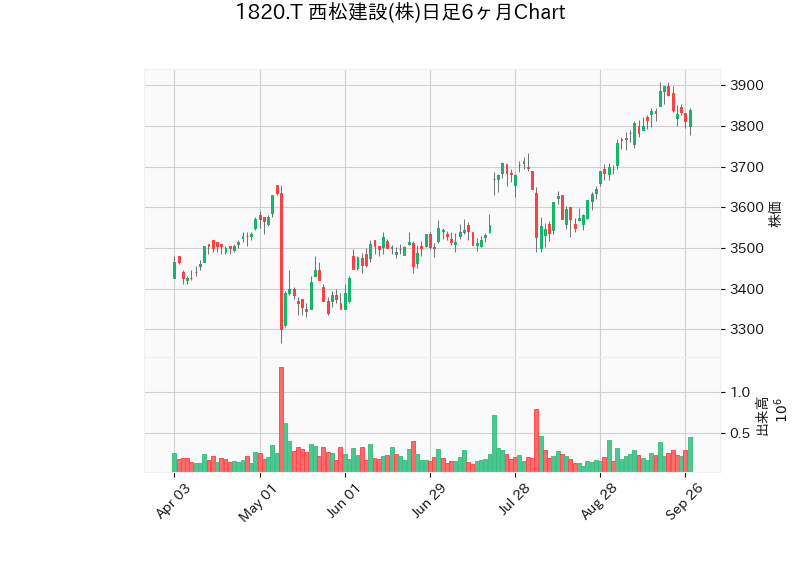
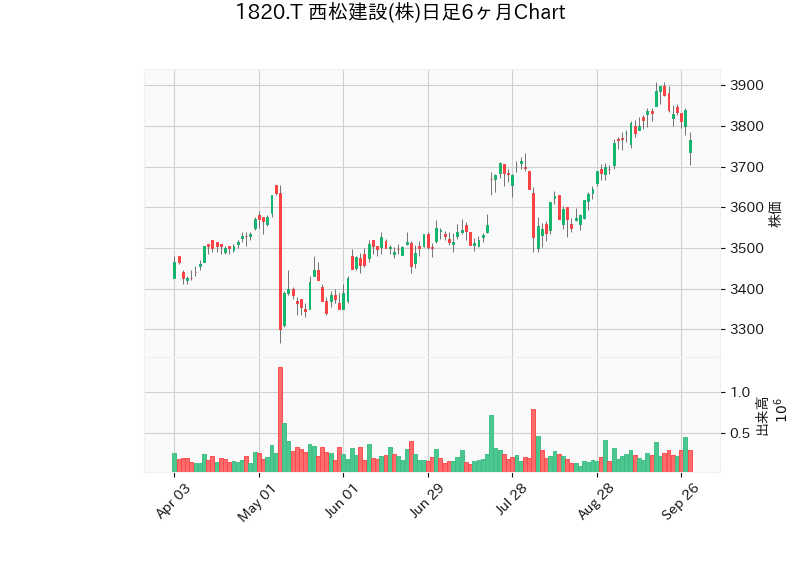
20230929-14

diff --git a/k/index.html b/k/index.html
@@ -3,74 +3,122 @@
 <title>GetInfoooooo!</title>
 </head>
 <body>
-処理日時: 2023/09/28 06:42
+処理日時: 2023/09/29 05:20
 <p>※配当利回りの数字は不正確の模様。確認中。</p>
 <p>※日経平均、主要ETF、その他指数のチャートはいずれ対応予定。</p>
 <p>　Nasdaq100、SP500、DOW、日経先物、TOPIX、ドル円など</p>
 
-────────────────────────────<p>1301：(株)極洋 （水産・農林業）</p>
-<p>利回：2.26%  権確：2024/03/28  前日終値：4020.0 円</p>
+<br><br>────────────────────────────────────────<p>1301：(株)極洋 （水産・農林業）</p>
+<p>利回：2.26%  権確：2024/03/28  前日終値：4015.0 円</p>
 <img src='img/1301.T_candlestick_chart.png'>
-────────────────────────────<p>1414：ショーボンドホールディングス(株) （建設業）</p>
-<p>利回：2.46%  権確：2023/12/28  前日終値：5897.0 円</p>
+<br><br>────────────────────────────────────────<p>1414：ショーボンドホールディングス(株) （建設業）</p>
+<p>利回：2.47%  権確：2023/12/28  前日終値：5905.0 円</p>
 <img src='img/1414.T_candlestick_chart.png'>
-────────────────────────────<p>1419：タマホーム(株) （建設業）</p>
-<p>利回：10.18%  権確：2024/05/30  前日終値：3675.0 円</p>
+<br><br>────────────────────────────────────────<p>1419：タマホーム(株) （建設業）</p>
+<p>利回：10.18%  権確：2024/05/30  前日終値：3645.0 円</p>
 <img src='img/1419.T_candlestick_chart.png'>
-────────────────────────────<p>1420：サンヨーホームズ(株) （建設業）</p>
-<p>利回：6.88%  権確：2024/03/28  前日終値：730.0 円</p>
+<br><br>────────────────────────────────────────<p>1420：サンヨーホームズ(株) （建設業）</p>
+<p>利回：6.88%  権確：2024/03/28  前日終値：727.0 円</p>
 <img src='img/1420.T_candlestick_chart.png'>
-────────────────────────────<p>1518：三井松島ホールディングス(株) （鉱業）</p>
-<p>利回：2.79%  権確：2023/09/28  前日終値：2839.0 円</p>
+<br><br>────────────────────────────────────────<p>1518：三井松島ホールディングス(株) （鉱業）</p>
+<p>利回：2.79%  権確：2023/09/28  前日終値：2854.0 円</p>
 <img src='img/1518.T_candlestick_chart.png'>
-────────────────────────────<p>1605：(株)ＩＮＰＥＸ （鉱業）</p>
-<p>利回：3.27%  権確：2023/12/28  前日終値：2267.0 円</p>
+<br><br>────────────────────────────────────────<p>1605：(株)ＩＮＰＥＸ （鉱業）</p>
+<p>利回：3.27%  権確：2023/12/28  前日終値：2323.0 円</p>
 <img src='img/1605.T_candlestick_chart.png'>
-────────────────────────────<p>1663：Ｋ＆Ｏエナジーグループ(株) （鉱業）</p>
-<p>利回：1.35%  権確：2023/12/28  前日終値：2528.0 円</p>
+<br><br>────────────────────────────────────────<p>1663：Ｋ＆Ｏエナジーグループ(株) （鉱業）</p>
+<p>利回：1.35%  権確：2023/12/28  前日終値：2642.0 円</p>
 <img src='img/1663.T_candlestick_chart.png'>
-────────────────────────────<p>1719：安藤ハザマ （建設業）</p>
-<p>利回：4.99%  権確：2023/09/28  前日終値：1195.0 円</p>
+<br><br>────────────────────────────────────────<p>1719：安藤ハザマ （建設業）</p>
+<p>利回：4.99%  権確：2023/09/28  前日終値：1192.0 円</p>
 <img src='img/1719.T_candlestick_chart.png'>
-────────────────────────────<p>1766：東建コーポレーション(株) （建設業）</p>
-<p>利回：3.16%  権確：2024/04/26  前日終値：8010.0 円</p>
+<br><br>────────────────────────────────────────<p>1766：東建コーポレーション(株) （建設業）</p>
+<p>利回：3.16%  権確：2024/04/26  前日終値：8040.0 円</p>
 <img src='img/1766.T_candlestick_chart.png'>
-────────────────────────────<p>1801：大成建設(株) （建設業）</p>
-<p>利回：2.45%  権確：2023/09/28  前日終値：5289.0 円</p>
+<br><br>────────────────────────────────────────<p>1801：大成建設(株) （建設業）</p>
+<p>利回：2.45%  権確：2023/09/28  前日終値：5318.0 円</p>
 <img src='img/1801.T_candlestick_chart.png'>
-────────────────────────────<p>1802：(株)大林組 （建設業）</p>
-<p>利回：3.10%  権確：2023/09/28  前日終値：1339.5 円</p>
+<br><br>────────────────────────────────────────<p>1802：(株)大林組 （建設業）</p>
+<p>利回：3.10%  権確：2023/09/28  前日終値：1336.0 円</p>
 <img src='img/1802.T_candlestick_chart.png'>
-────────────────────────────<p>1820：西松建設(株) （建設業）</p>
-<p>利回：4.88%  権確：2023/09/28  前日終値：3760.0 円</p>
+<br><br>────────────────────────────────────────<p>1820：西松建設(株) （建設業）</p>
+<p>利回：4.88%  権確：2023/09/28  前日終値：3766.0 円</p>
 <img src='img/1820.T_candlestick_chart.png'>
-────────────────────────────<p>1911：住友林業(株) （建設業）</p>
-<p>利回：3.31%  権確：2023/12/28  前日終値：3898.0 円</p>
+<br><br>────────────────────────────────────────<p>1911：住友林業(株) （建設業）</p>
+<p>利回：3.31%  権確：2023/12/28  前日終値：3846.0 円</p>
 <img src='img/1911.T_candlestick_chart.png'>
-────────────────────────────<p>1925：大和ハウス工業(株) （建設業）</p>
-<p>利回：3.49%  権確：2023/09/28  前日終値：4093.0 円</p>
+<br><br>────────────────────────────────────────<p>1925：大和ハウス工業(株) （建設業）</p>
+<p>利回：3.49%  権確：2023/09/28  前日終値：4032.0 円</p>
 <img src='img/1925.T_candlestick_chart.png'>
-────────────────────────────<p>1928：積水ハウス(株) （建設業）</p>
-<p>利回：3.90%  権確：2024/01/30  前日終値：3029.0 円</p>
+<br><br>────────────────────────────────────────<p>1928：積水ハウス(株) （建設業）</p>
+<p>利回：3.90%  権確：2024/01/30  前日終値：3010.0 円</p>
 <img src='img/1928.T_candlestick_chart.png'>
-────────────────────────────<p>1934：(株)ユアテック （建設業）</p>
-<p>利回：2.87%  権確：2023/09/28  前日終値：971.0 円</p>
+<br><br>────────────────────────────────────────<p>1934：(株)ユアテック （建設業）</p>
+<p>利回：2.87%  権確：2023/09/28  前日終値：980.0 円</p>
 <img src='img/1934.T_candlestick_chart.png'>
-────────────────────────────<p>1938：日本リーテック(株) （建設業）</p>
-<p>利回：2.18%  権確：2024/03/28  前日終値：1374.0 円</p>
+<br><br>────────────────────────────────────────<p>1938：日本リーテック(株) （建設業）</p>
+<p>利回：2.18%  権確：2024/03/28  前日終値：1336.0 円</p>
 <img src='img/1938.T_candlestick_chart.png'>
-────────────────────────────<p>1941：(株)中電工 （建設業）</p>
-<p>利回：4.16%  権確：2023/09/28  前日終値：2460.0 円</p>
+<br><br>────────────────────────────────────────<p>1941：(株)中電工 （建設業）</p>
+<p>利回：4.16%  権確：2023/09/28  前日終値：2440.0 円</p>
 <img src='img/1941.T_candlestick_chart.png'>
-────────────────────────────<p>1944：(株)きんでん （建設業）</p>
-<p>利回：1.85%  権確：2023/09/28  前日終値：2165.0 円</p>
+<br><br>────────────────────────────────────────<p>1944：(株)きんでん （建設業）</p>
+<p>利回：1.85%  権確：2023/09/28  前日終値：2190.5 円</p>
 <img src='img/1944.T_candlestick_chart.png'>
-────────────────────────────<p>1951：エクシオグループ(株) （建設業）</p>
-<p>利回：3.84%  権確：2023/09/28  前日終値：3095.0 円</p>
+<br><br>────────────────────────────────────────<p>1951：エクシオグループ(株) （建設業）</p>
+<p>利回：3.84%  権確：2023/09/28  前日終値：3079.0 円</p>
 <img src='img/1951.T_candlestick_chart.png'>
-────────────────────────────<p>1952：新日本空調(株) （建設業）</p>
-<p>利回：4.08%  権確：2023/09/28  前日終値：2444.0 円</p>
+<br><br>────────────────────────────────────────<p>1952：新日本空調(株) （建設業）</p>
+<p>利回：4.08%  権確：2023/09/28  前日終値：2447.0 円</p>
 <img src='img/1952.T_candlestick_chart.png'>
+<br><br>────────────────────────────────────────<p>2053：中部飼料(株) （食料品）</p>
+<p>利回：3.01%  権確：2023/09/28  前日終値：1115.0 円</p>
+<img src='img/2053.T_candlestick_chart.png'>
+<br><br>────────────────────────────────────────<p>2114：フジ日本精糖(株) （食料品）</p>
+<p>利回：2.60%  権確：2023/09/28  前日終値：1046.0 円</p>
+<img src='img/2114.T_candlestick_chart.png'>
+<br><br>────────────────────────────────────────<p>2229：カルビー(株) （食料品）</p>
+<p>利回：3.73%  権確：2024/03/28  前日終値：2866.0 円</p>
+<img src='img/2229.T_candlestick_chart.png'>
+<br><br>────────────────────────────────────────<p>2269：明治ホールディングス(株) （食料品）</p>
+<p>利回：2.57%  権確：2023/09/28  前日終値：3722.0 円</p>
+<img src='img/2269.T_candlestick_chart.png'>
+<br><br>────────────────────────────────────────<p>2270：雪印メグミルク(株) （食料品）</p>
+<p>利回：2.56%  権確：2024/03/28  前日終値：2346.0 円</p>
+<img src='img/2270.T_candlestick_chart.png'>
+<br><br>────────────────────────────────────────<p>2331：ＡＬＳＯＫ （サービス業）</p>
+<p>利回：1.85%  権確：2023/09/28  前日終値：915.8 円</p>
+<img src='img/2331.T_candlestick_chart.png'>
+<br><br>────────────────────────────────────────<p>2337：いちご(株) （不動産業）</p>
+<p>利回：4.86%  権確：2024/02/28  前日終値：333.0 円</p>
+<img src='img/2337.T_candlestick_chart.png'>
+<br><br>────────────────────────────────────────<p>2353：日本駐車場開発(株) （不動産業）</p>
+<p>利回：5.17%  権確：2024/07/30  前日終値：216.0 円</p>
+<img src='img/2353.T_candlestick_chart.png'>
+<br><br>────────────────────────────────────────<p>2393：(株)日本ケアサプライ （サービス業）</p>
+<p>利回：8.20%  権確：2024/03/28  前日終値：1692.0 円</p>
+<img src='img/2393.T_candlestick_chart.png'>
+<br><br>────────────────────────────────────────<p>2461：(株)ファンコミュニケーションズ （サービス業）</p>
+<p>利回：9.50%  権確：2023/12/28  前日終値：397.0 円</p>
+<img src='img/2461.T_candlestick_chart.png'>
+<br><br>────────────────────────────────────────<p>2503：キリンホールディングス(株) （食料品）</p>
+<p>利回：3.22%  権確：2023/12/28  前日終値：2122.0 円</p>
+<img src='img/2503.T_candlestick_chart.png'>
+<br><br>────────────────────────────────────────<p>2531：宝ホールディングス(株) （食料品）</p>
+<p>利回：2.23%  権確：2024/03/28  前日終値：1226.5 円</p>
+<img src='img/2531.T_candlestick_chart.png'>
+<br><br>────────────────────────────────────────<p>2540：養命酒製造(株) （食料品）</p>
+<p>利回：2.37%  権確：2024/03/28  前日終値：1861.0 円</p>
+<img src='img/2540.T_candlestick_chart.png'>
+<br><br>────────────────────────────────────────<p>2670：(株)エービーシー・マート （小売業）</p>
+<p>利回：2.13%  権確：2024/02/28  前日終値：2715.0 円</p>
+<img src='img/2670.T_candlestick_chart.png'>
+<br><br>────────────────────────────────────────<p>2676：高千穂交易(株) （卸売業）</p>
+<p>利回：4.23%  権確：2023/09/28  前日終値：3190.0 円</p>
+<img src='img/2676.T_candlestick_chart.png'>
+<br><br>────────────────────────────────────────<p>2871：(株)ニチレイ （食料品）</p>
+<p>利回：2.17%  権確：2023/09/28  前日終値：3339.0 円</p>
+<img src='img/2871.T_candlestick_chart.png'>
 
 
 </html>

diff --git a/index.html b/index.html
@@ -128,7 +128,7 @@
   </main>
   <footer>
     <br>
-    <p>　🏐　🏐　&copy; 2023 福岡町バレーボールスポーツ少年団. All rights reserved.　🏐　<!--a href="g/tetris.html" style="text-decoration:none;">🏐</a></p>
+    <p>　🏐　🏐　&copy; 2023 福岡町バレーボールスポーツ少年団. All rights reserved.　🏐　<!--a href="g/tetris.html" style="text-decoration:none;" -->🏐<!-- /a --></p>
     <br>
   </footer>
   <!-- /div --><!-- /div -->
